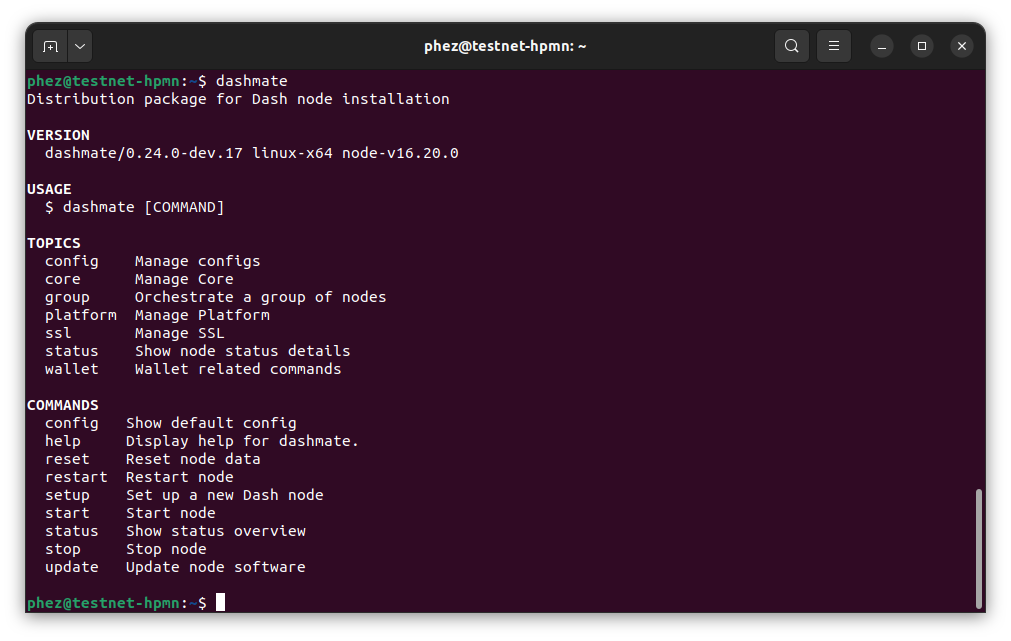
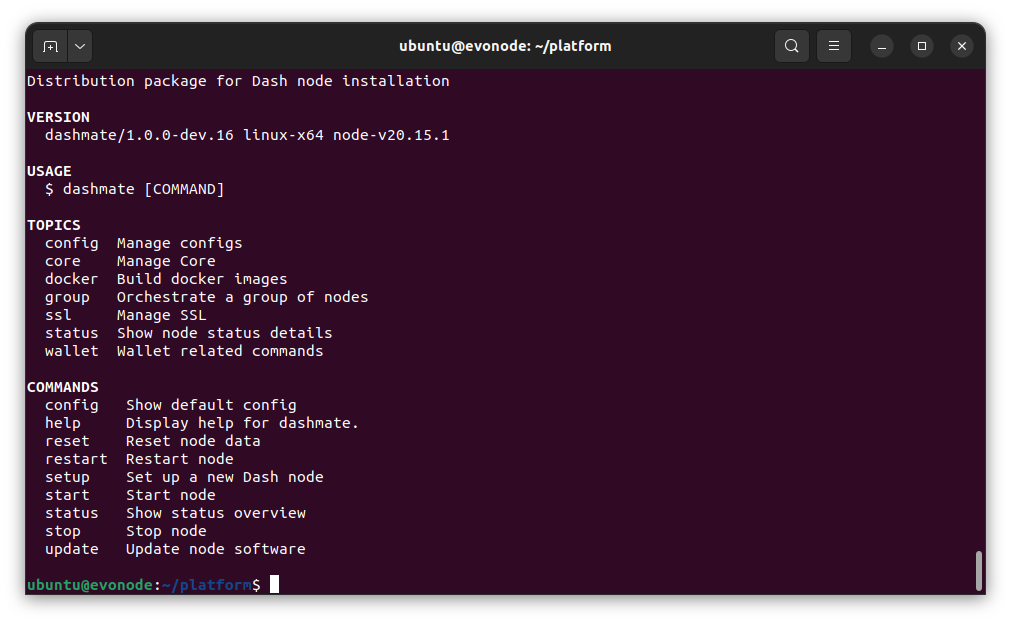
docs: update dashmate screenshots and import section

diff --git a/docs/user/network/dashmate/index.rst b/docs/user/network/dashmate/index.rst
@@ -118,6 +118,8 @@ If registering a new masternode, jump to the :ref:`defining keys and addresses
 Import existing Core data
 -------------------------
 
+.. note:: The following step only applies when migrating an existing masternode into dashmate.
+
 If you chose to import an existing masternode in the previous step, you will be prompted for the
 location of your existing installation. 
 
@@ -133,8 +135,14 @@ location of your existing installation.
 
    Enter existing Core data directory
 
-Once the Core data has been imported, jump to the :ref:`enable SSL <dashmate-enable-ssl>` section if
-setting up an evonode.
+.. figure:: img/4c-import-existing-data-complete.png
+   :align: center
+   :width: 90%
+
+   Core data import complete
+
+Once the Core data has been imported, jump to the :ref:`configure communication
+<dashmate-configure-communication>` section.
 
 .. _dashmate-define-keys-addresses:
 
@@ -191,6 +199,8 @@ Optionally, use the one automatically generated by dashmate.
    :width: 90%
 
    Enter the Platform node key
+
+.. _dashmate-configure-communication:
 
 Configure communication
 -----------------------
